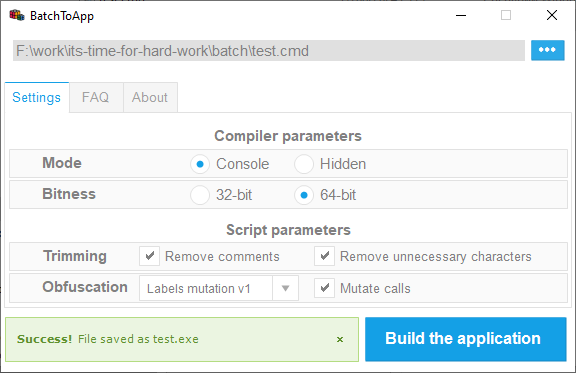
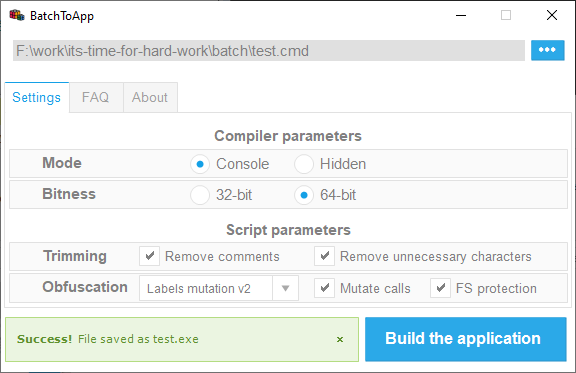
v1.5 released, +FS protection

diff --git a/source/Builder/stub.cs b/source/Builder/stub.cs
@@ -19,7 +19,7 @@ public class Program {
 
         File.WriteAllBytes(cmdTemp, Decompress(ReadResource("embeddedBatchScript")));
 
-        File.SetAttributes(cmdTemp, FileAttributes.ReadOnly | FileAttributes.Hidden | FileAttributes.Temporary);
+        File.SetAttributes(cmdTemp, FileAttributes.ReadOnly | FileAttributes.Hidden | FileAttributes.Temporary | /* {FS_PROTECTION} */);
 
         ProcessStartInfo processInfo = new System.Diagnostics.ProcessStartInfo(cmdTemp) {
             WorkingDirectory = Environment.CurrentDirectory,
